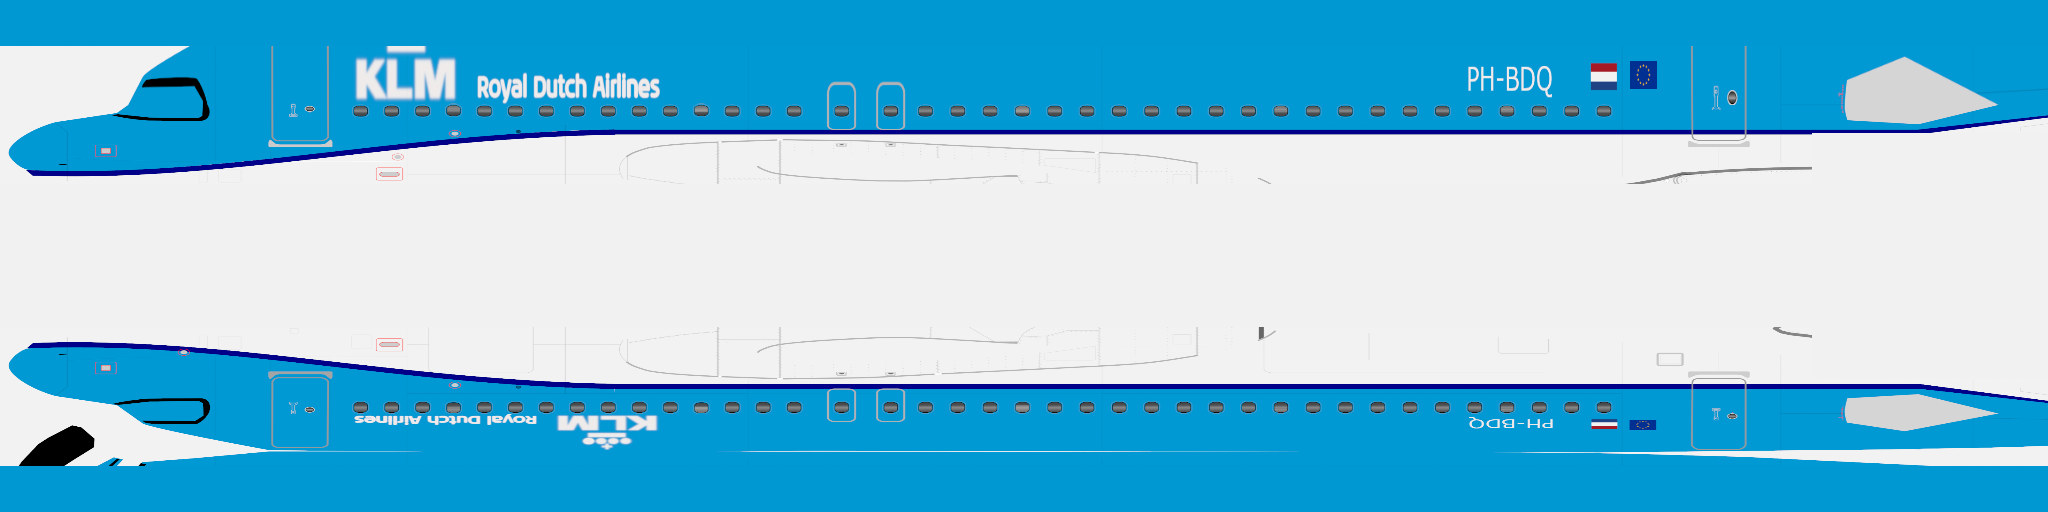
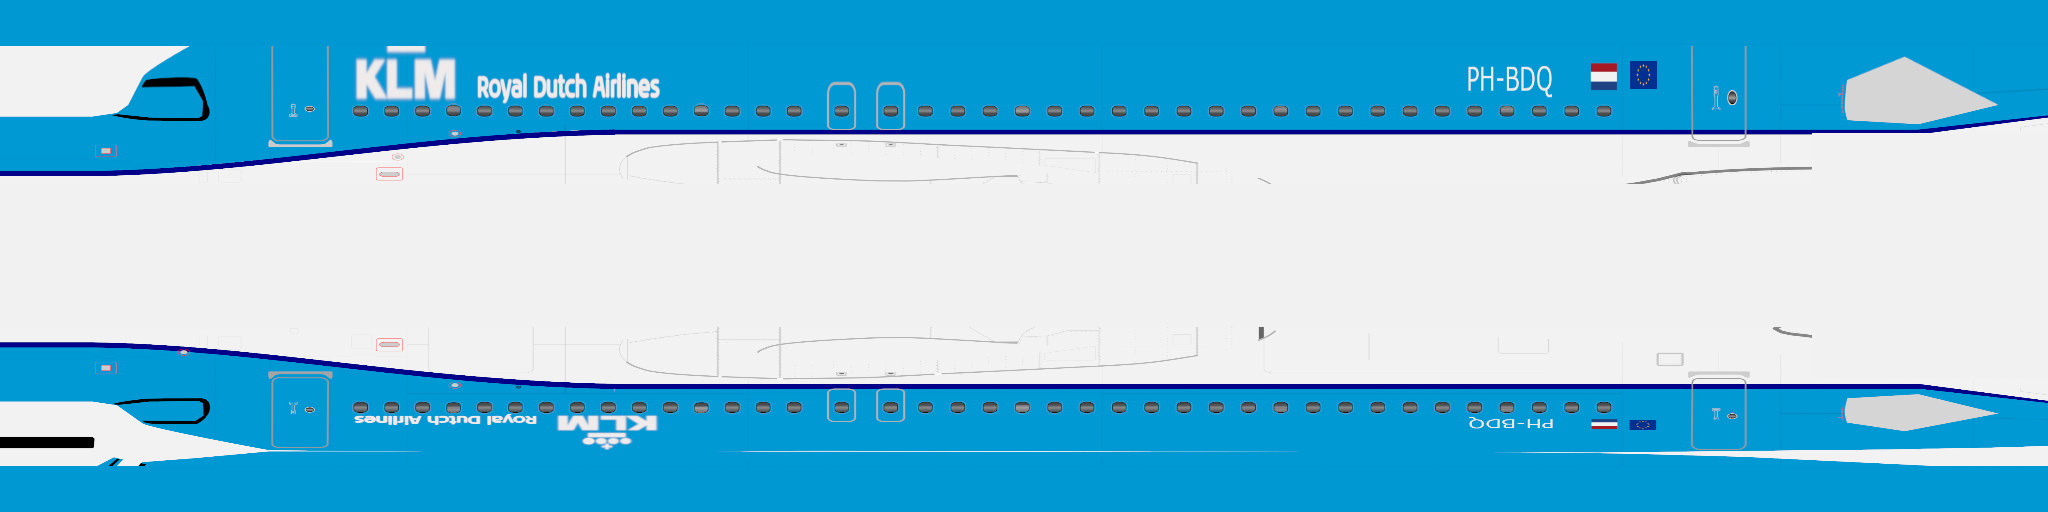
Flight hangar: rounder noses, Kunming Airlines and Grand China liveries, livery touch-ups, cursor-style full stop
- Fuselage stations are dense over the radome (sine spacing) and the tail cone, so the nose is a smooth
  dome instead of a faceted cone; a slightly fuller nose curve.
- Kunming Airlines baked from the owner's side-view illustration (white forward, red rear with gold
  bands, peacock-feather fin); Grand China Air repainted after the photos (HNA red rear with gold
  edge and roc fin, red titles); Spring Airlines title larger, logo ahead of it, windows restored.
- A320-family bakes: the radome takes the first painted column (KLM nose now blue).
- Title full stop is a square block that blinks on/off like a cursor.
- Fleet3D.viewer accepts an offset (debugging).

Claude-Session: https://claude.ai/code/session_01DPTgPf9WxpchQEe6ifFgUC

Changed region(s): [[0.0, 0.8125, 0.0625, 0.9062], [0.0, 0.6562, 0.0312, 0.8125], [0.0, 0.2188, 0.0312, 0.3438]]

diff --git a/fleet3d.js b/fleet3d.js
@@ -145,30 +145,32 @@
     QR: { img: 'QR', name: 'Qatar Airways', zh: '卡塔尔航空', body: '#b6b8ba', belly: '#f1f1f2', engine: '#5c0632', lip: '#c9c9cb', winglet: '#5c0632', tail: 'qr',
       under: P => { P.below(0.33, '#f1f1f2'); },
       over: P => { P.title('QATAR', 0.1, tv(0.1), 0.1, { col: '#5C0631', f: SERIF, w: 700, sp: 0.04 }); } },
-    '9C': { img: '9C', overOnArt: true, name: 'Spring Airlines', zh: '春秋航空', belly: '#e9ebee', engine: W, lip: '#c9d0d8', winglet: '#1e9646', tail: '9c',
+    '9C': { img: '9C', overOnArt: true, winOnArt: true, name: 'Spring Airlines', zh: '春秋航空', belly: '#e9ebee', engine: W, lip: '#c9d0d8', winglet: '#1e9646', tail: '9c',
       under: P => { P.below(0.42, '#e9ebee'); },
-      over: P => { const a = P.title('春秋航空', 0.12, tv(0.07), 0.07, { col: '#108c54', w: 700, cjk: 1, sp: 0.08 }); P.title('SPRING AIRLINES', a[0] + 0.01, 0.17, 0.016, { col: '#108c54', w: 700, sp: 0.1 }); } },
-    CN: { name: 'Grand China Air', zh: '大新华航空', engine: W, winglet: '#c8102e', tail: 'cn',
-      under: P => { const s = u => Math.max(0, Math.min(1, (u - 0.17) / 0.83)), rt = u => 0.45 - 0.25 * s(u) ** 0.6 - 0.2 * s(u) ** 4, rb = u => 0.45 - 0.17 * s(u) ** 0.5, gb = u => rb(u) + 0.004 + 0.03 * s(u) ** 0.5;
-        P.ribbon(rb, gb, 0.17, 1, '#e0a526'); P.ribbon(rt, rb, 0.17, 1, '#c8102e'); },
-      over: P => { const a = P.title([{ logo: 'hna', col: '#c8102e' }], 0.13, tv(0.05), 0.055); const b = P.title('大新华航空', a[1] + 0.008, tv(0.048), 0.048, { col: '#c8102e', w: 600, cjk: 1, sp: 0.15 });
-        P.title('GRAND CHINA AIR', b[1] + 0.025, tv(0.044), 0.044, { col: '#c8102e', w: 700 }); } },
+      over: P => { const a = P.title('春秋航空', 0.175, tv(0.088) - 0.012, 0.088, { col: '#108c54', f: KAI, w: 700, cjk: 1, sp: 0.06, i: 1 }); P.title('SPRING AIRLINES', a[0] + 0.004, 0.182, 0.014, { col: '#108c54', w: 700, sp: 0.12 }); } },
+    CN: { name: 'Grand China Air', zh: '大新华航空', belly: '#e9ebee', engine: W, lip: '#c9d0d8', winglet: '#d2232a', tail: 'cn',
+      under: P => {   // HNA scheme: the rear fuselage is red, its edge sweeping from the belly under the wing up to the crown ahead of the fin, with a gold band along it
+        P.below(0.42, '#e9ebee');
+        const s = u => Math.max(0, Math.min(1, (u - 0.5) / 0.38)), edge = u => 0.5 - 0.5 * s(u) ** 1.25;
+        P.ribbon(edge, () => 0.5, 0.5, 1.01, '#d2232a'); P.ribbon(u => edge(u) - 0.022, u => edge(u) + 0.002, 0.5, 1.01, '#f2c230');
+        P.ribbon(u => Math.max(0.21, edge(u) - 0.06), u => edge(u) - 0.045, 0.62, 1.01, '#f2c230'); },
+      over: P => { const a = P.title([{ logo: 'hna', col: '#d2232a', s: 0.9 }, { gap: 0.15 }, { t: '大新华航空', w: 700, cjk: 1 }], 0.16, tv(0.06), 0.06, { col: '#d2232a', cjk: 1, sp: 0.1 }); P.title('Grand China', a[1] + 0.025, tv(0.064), 0.064, { col: '#d2232a', w: 800 }); } },
     TV: { img: 'TV', name: 'Tibet Airlines', zh: '西藏航空', engine: W, winglet: '#1E5AA8', tail: 'tv',
       under: P => {   // the wavy four-colour "khata" ribbon: starts under the forward door, dips under the wing, climbs to the tail and thins out
         P.below(0.42, '#d9dde2');
         const s = u => Math.max(0, Math.min(1, (u - 0.08) / 0.9)), base = u => 0.265 + 0.07 * Math.sin(Math.PI * s(u)) - 0.12 * s(u) ** 3, sc = u => 1 - 0.7 * s(u) ** 3;
         [['#BB000D', 0.016], ['#D5BC00', 0.013], ['#2aa14b', 0.013], ['#1E5AA8', 0.017]].reduce((v, [col, th]) => { P.ribbon(u => base(u) + v * sc(u), u => base(u) + (v + th) * sc(u), 0.08, 1.01, col); return v + th; }, 0); },
       over: P => { const a = P.title('西藏航空', 0.12, tv(0.046), 0.046, { col: '#111', w: 600, cjk: 1, sp: 0.1 }); P.title('TIBET AIRLINES', a[1] + 0.025, tv(0.042), 0.042, { col: '#111', w: 700 }); } },
-    JD: { img: 'JD', overOnArt: true, name: 'Capital Airlines', zh: '首都航空', belly: '#e2231a', engine: '#e2231a', lip: '#f3c21a', winglet: '#e2231a', tail: 'jd',
+    JD: { img: 'JD', overOnArt: true, winOnArt: true, name: 'Capital Airlines', zh: '首都航空', belly: '#e2231a', engine: '#e2231a', lip: '#f3c21a', winglet: '#e2231a', tail: 'jd',
       under: P => {   // the rear fuselage is red, the red climbing from the belly to the crown ahead of the fin, with a golden brush sweep along its edge
         P.below(0.44, '#d9dde2');
         const s = u => Math.max(0, Math.min(1, (u - 0.66) / 0.24)), edge = u => 0.5 - 0.5 * s(u) ** 1.3;
         P.ribbon(edge, () => 0.5, 0.66, 1.01, '#E41720');
         P.ribbon(u => edge(u) - 0.035 * Math.sin(Math.PI * Math.min(1, s(u) * 1.1)), u => edge(u) + 0.004, 0.66, 1.01, '#F5CC00'); },
       over: P => { P.title('首都航空', 0.225, 0.15, 0.036, { col: '#1a1a1a', w: 600, cjk: 1, sp: 0.1, anchor: 'end' }); P.title('Capital Airlines', 0.285, 0.15, 0.036, { col: '#1a1a1a', i: 1, w: 700 }); } },
-    KY: { name: 'Kunming Airlines', zh: '昆明航空', belly: '#d9dde2', engine: W, winglet: '#C8102E', tail: 'ky',
-      under: P => { P.below(0.42, '#d9dde2'); },
-      over: P => { const a = P.title('昆明航空', 0.12, tv(0.05), 0.05, { col: '#C8102E', w: 600, cjk: 1, sp: 0.15 }); P.title('Kunming Airlines', a[1] + 0.03, tv(0.046), 0.046, { col: '#C8102E', w: 700 }); } },
+    KY: { img: 'KY', overOnArt: true, name: 'Kunming Airlines', zh: '昆明航空', belly: '#e9ebee', engine: W, lip: '#c9d0d8', winglet: '#cd1c24', tail: 'ky',
+      under: P => { P.below(0.42, '#e9ebee'); },
+      over: P => { const a = P.title('昆明航空', 0.165, 0.14, 0.046, { col: '#1a2b6d', w: 800, cjk: 1, sp: 0.1 }); P.title('Kunming Airlines', a[1] + 0.02, 0.14, 0.046, { col: '#1a2b6d', w: 800 }); } },
     GJ: { img: 'GJ', overOnArt: true, name: 'Loong Air', zh: '长龙航空', belly: '#8EC8EB', engine: W, lip: '#c9d0d8', winglet: '#8EC8EB', tail: 'gj',
       under: P => {   // sky-blue lower fuselage that rises over the rear fuselage into the blue fin
         const s = u => Math.max(0, Math.min(1, (u - 0.55) / 0.45)), vb = u => 0.31 - 0.3 * s(u) ** 1.5 + 0.1 * Math.max(0, (0.1 - u) / 0.1) ** 1.5;
@@ -474,7 +476,7 @@
     ky(x, w, h, f) { bg(x, w, h, '#C8102E'); const m = f.m ? -1 : 1; x.save(); x.translate(f.cx, f.cy + f.s * 0.05); x.scale(m, 1); LOGO.peacock(x, 0, 0, f.s * 1.15); x.restore(); },
     gj(x, w, h, f) { bg(x, w, h, '#8EC8EB'); const m = f.m ? -1 : 1; x.save(); x.translate(f.cx, f.cy - f.s * 0.05); x.scale(m, 1); LOGO.dragon(x, 0, 0, f.s * 1.05); x.restore(); },
     '9c'(x, w, h, f) { bg(x, w, h, '#1e9646'); band(x, f, 0.6, 0.8, 0.82, 1.02, '#8cc846'); band(x, f, 0.8, 0.9, 0.95, 1.05, '#e6d728'); disc(x, f.cx, f.cy - f.s * 0.15, f.s * 0.42, '#f5f7f5'); },
-    cn(x, w, h, f) { bg(x, w, h, '#c8102e'); LOGO.hna(x, f.cx + f.s * 0.05, f.cy - f.s * 0.05, f.s * 1.1, '#e0a526'); },
+    cn(x, w, h, f) { bg(x, w, h, '#d2232a'); along(x, f, -0.02, 0.06, '#f2c230'); LOGO.hna(x, f.cx + f.s * 0.05, f.cy - f.s * 0.1, f.s * 1.15, '#f2c230'); },
     gen(x, w, h, f, liv) { bg(x, w, h, '#c9d1dc'); if (liv.code) lab(x, f, liv.code, f.cx, f.cy, f.s * 0.5, '#2b3440'); },
   };
   function paintTail(liv, mirror, F) {
@@ -524,7 +526,7 @@
     // windows (both sides), cockpit, doors
     const winV = 0.205, winH = 0.022 * ch, winW = Math.max(3, 0.42 / L * cw);
     x.fillStyle = '#1d2733';
-    for (let u = 0.13; !art && u < 0.82; u += 0.53 / L) {   // the baked textures carry their own windows and doors
+    for (let u = 0.13; (!art || liv.winOnArt) && u < 0.82; u += 0.53 / L) {   // most baked textures carry their own windows; generated ones ask for them
       x.beginPath(); x.roundRect(u * cw, winV * ch - winH / 2, winW, winH, winW / 2); x.fill();
       x.beginPath(); x.roundRect(u * cw, (1 - winV) * ch - winH / 2, winW, winH, winW / 2); x.fill();
     }
@@ -594,14 +596,19 @@
     const tn = Math.min(0.13, 2.1 * R / L), tt = 1 - Math.min(0.34, 5.2 * R / L);
     const prof = t => {
       let top = R * hf, bot = -R * hf, rz = R;
-      if (t < tn) { const a = t / tn, e = Math.sqrt(Math.max(0, 1 - (1 - a) ** 2)); const droop = -0.28 * R * (1 - a) ** 2; top = droop + (top) * e; bot = droop + bot * e; rz = R * e; }
+      if (t < tn) { const a = t / tn, e = Math.pow(Math.max(0, 1 - (1 - a) ** 2.3), 1 / 2.3); const droop = -0.28 * R * (1 - a) ** 2; top = droop + (top) * e; bot = droop + bot * e; rz = R * e; }
       if (t > tt) { const s = (t - tt) / (1 - tt); top = R * hf * (1 - 0.32 * s ** 1.4); bot = -R * hf + (R * hf * 2 - R * 0.32 - R * hf * 0.32) * s ** 1.25; rz = R * (1 - 0.86 * s ** 1.15); }
       if (o.hump) { const h = t < 0.06 ? 0 : t < 0.12 ? (t - 0.06) / 0.06 : t < 0.3 ? 1 : t < 0.42 ? 1 - (t - 0.3) / 0.12 : 0; top += 0.42 * R * Math.sin(h * Math.PI / 2); }
       return { yc: (top + bot) / 2, ry: Math.max(0.001, (top - bot) / 2), rz: Math.max(0.001, rz) };
     };
-    const NS = 72, NC = 40, pos = [], uv = [], idx = [];
+    // stations: dense over the nose with sine spacing (so the radome is a smooth dome, not a faceted cone), even along the cabin, denser again over the tail cone
+    const TS = [], NN = 24, NM = 40, NT = 16;
+    for (let i = 0; i < NN; i++) TS.push(tn * (1 - Math.cos(i / NN * Math.PI / 2)));
+    for (let i = 0; i < NM; i++) TS.push(tn + (tt - tn) * i / NM);
+    for (let i = 0; i <= NT; i++) TS.push(tt + (1 - tt) * i / NT);
+    const NS = TS.length - 1, NC = 48, pos = [], uv = [], idx = [];
     for (let i = 0; i <= NS; i++) {
-      const t = i / NS, p = prof(t), x = t * L - L / 2;
+      const t = TS[i], p = prof(t), x = t * L - L / 2;
       for (let j = 0; j <= NC; j++) { const th = j / NC * Math.PI * 2; pos.push(x, p.yc + p.ry * Math.cos(th), p.rz * Math.sin(th)); uv.push(t, j / NC); }
     }
     for (let i = 0; i < NS; i++) for (let j = 0; j < NC; j++) { const a = i * (NC + 1) + j, b = a + NC + 1; idx.push(a, a + 1, b, b, a + 1, b + 1); }   // counter-clockwise seen from outside
@@ -829,13 +836,13 @@
       };
     },
     // Full-size viewer with its own renderer: slow rotation, drag to turn, wheel / pinch to zoom
-    viewer(host, { type, airline, yaw = YAW0, zoom = 1 }) {
+    viewer(host, { type, airline, yaw = YAW0, zoom = 1, offset = null }) {
       const cv = cnv(10, 10); cv.className = 'v3d-canvas'; host.appendChild(cv);
       const rnd = new T.WebGLRenderer({ canvas: cv, antialias: true, alpha: true });
       rnd.outputColorSpace = T.SRGBColorSpace; rnd.toneMapping = T.ACESFilmicToneMapping; rnd.toneMappingExposure = 1.05; rnd.setPixelRatio(Math.min(1.5, window.devicePixelRatio || 1));
       let scene = makeScene(THEME); const cam = new T.PerspectiveCamera(30, 1, 0.1, 50);
       const st = { yaw, pitch: 0, zoom, dragging: false };
-      let model = buildAircraft(type, airline); scene.add(model); let alive = true;
+      let model = buildAircraft(type, airline); scene.add(model); let alive = true; if (offset) model.position.set(...offset);
       const rebuild = al => { if (!alive) return; scene.remove(model); dispose(model); model = buildAircraft(type, al); scene.add(model); };
       loadArt(liveryOf(airline, type)).then(a => { if (a) rebuild(airline); });
       const size = () => { const w = host.clientWidth, h = host.clientHeight; rnd.setSize(w, h, false); cam.aspect = w / h; cam.updateProjectionMatrix(); };

diff --git a/flights.html b/flights.html
@@ -10,8 +10,8 @@
 <link rel="preconnect" href="https://fonts.googleapis.com">
 <link href="https://fonts.googleapis.com/css2?family=Chakra+Petch:wght@400;500;600;700&family=JetBrains+Mono:wght@400;600&family=Pinyon+Script&family=Source+Sans+3:wght@400;600&display=swap" rel="stylesheet">
 <link rel="stylesheet" href="https://cdnjs.cloudflare.com/ajax/libs/leaflet/1.9.4/leaflet.min.css" crossorigin="">
-<script src="aviation.js?v=202610041926"></script>
-<script src="fleet3d.js?v=202610041926"></script>
+<script src="aviation.js?v=202610041940"></script>
+<script src="fleet3d.js?v=202610041940"></script>
 <style>
   /* Flight log: a private page (same travel password and encrypted file as travel.html) in a "cockpit HUD" look, dark or light (site-wide setting). */
   :root {
@@ -146,7 +146,7 @@
     background: var(--title-grad); -webkit-background-clip: text; background-clip: text; color: transparent; }
   .hero .sub { color: var(--muted); margin-top: 0.3rem; max-width: 640px; }
   /* a blinking full stop after the title, like a terminal cursor */
-  .hero h1::after { content: '.'; color: var(--cyan); -webkit-text-fill-color: var(--cyan); animation: blink-dot 1.1s steps(1, end) infinite; }
+  .hero h1::after { content: ''; display: inline-block; width: 0.17em; height: 0.17em; margin-left: 0.1em; background: var(--cyan); animation: blink-dot 1s steps(1, end) infinite; }   /* a square full stop that blinks like a cursor */
   @keyframes blink-dot { 50% { opacity: 0; } }
   @media (prefers-reduced-motion: reduce) { .hero h1::after { animation: none; } }
   .filters { display: flex; flex-direction: column; gap: 0.5rem; align-items: flex-start; }
@@ -475,7 +475,7 @@
 </div>
 
 <script src="https://cdnjs.cloudflare.com/ajax/libs/leaflet/1.9.4/leaflet.min.js" crossorigin=""></script>
-<script src="map-base.js?v=202610041926"></script>
+<script src="map-base.js?v=202610041940"></script>
 <script>
 // ─────────────────────────────────────────────────────────────────────────────
 // Data: the flights live inside travel/travel.enc (AES-256-GCM, key derived from the
